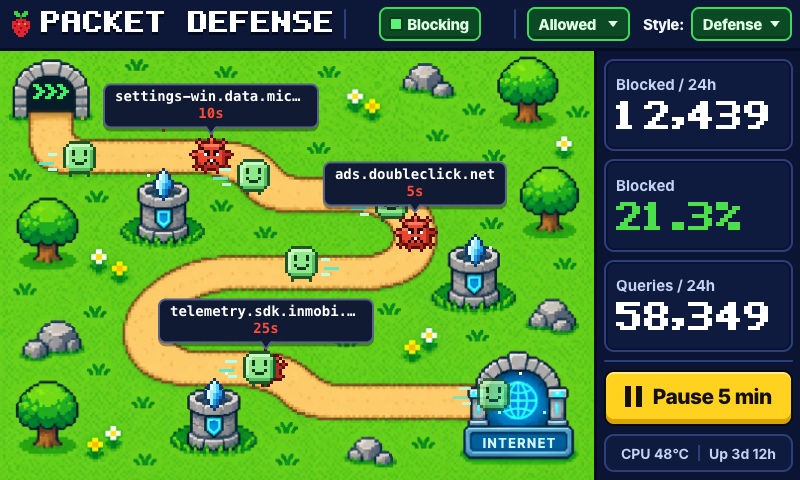
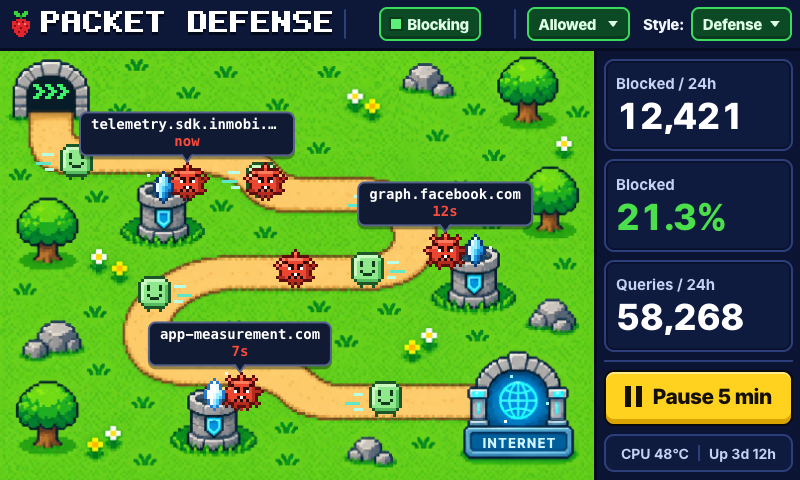
Duck Block on a painted marsh plate; clearer numbers and tidier scenes
Packet Defense and Duck Block use the heavy sans for their big numbers, held
monsters wait beside their tower so packets pass, and Duck Block call-outs stay
inside the scene.

diff --git a/app/themes/duckblock.js b/app/themes/duckblock.js
@@ -13,7 +13,7 @@
   // grass, pond, reeds). To swap in an image plate later, draw it at 0,0 at this size and keep these positions.
   const PW = 185, PH = 144, SC = 3;      // logical scene size; one logical pixel = 3 screen px (555 x 432 on the panel)
   const HORIZON_Y = 100;                 // where sky meets grass
-  const DOG = { x: 74, y: 138 };         // centre of the dog's feet on the grass
+  const DOG = { x: 76, y: 136 };         // centre of the dog's feet on the grass
   const SIGN = { dx: 41, dy: -47 };      // centre of the raised sign relative to DOG
   const LANES = [                        // flight lanes for labelled ducks: y = duck centre, x = where it hovers
     { y: 19, x: 52 }, { y: 42, x: 66 }, { y: 65, x: 58 },
@@ -21,6 +21,9 @@
   const EXTRA_Y = [9, 76];               // unlabelled ducks fly anywhere in this band
   const CALL_DX = 21;                    // call-out starts this far right of a duck's centre
   const PONDS = [{ x: 152, y: 110, rx: 34, ry: 4.5 }, { x: 22, y: 117, rx: 22, ry: 3.5 }];
+  // Image plate (themes/duckblock/plate.webp, 1200x880) shown under the canvas at the scene's height, left-aligned:
+  // logical = plate px * PH / 880. WATER is the painted strip of water (for the glints); the tree mask keeps clouds behind the tree.
+  const PLATE = { w: 1200, h: 880 }, WATER = { y0: 107, y1: 110 }, TREE_MASK_W = 46;
   const TREE = { x: 5, top: 40 };        // trunk base x (left edge tree) and where the trunk meets the canopy
 
   const mk = (w, h) => { const c = document.createElement("canvas"); c.width = w; c.height = h; return c; };
@@ -359,7 +362,7 @@
           <button class="dk-tb" data-act="allowed" data-k="allowed" type="button"><span>Allowed<span class="n"></span></span><i class="dk-chip"><svg viewBox="0 0 12 10" aria-hidden="true"><path d="M1 5l3.500 3.500L11 1.500" fill="none" stroke="currentColor" stroke-width="2.500"/></svg><u></u></i></button>
           <button class="dk-tb" data-act="style" type="button"><span>Style</span><i class="dk-chip">Duck<u></u></i></button>
         </div>
-        <div class="dk-scene"><canvas class="dk-cv" width="${PW}" height="${PH}"></canvas>
+        <div class="dk-scene"><img class="dk-plate" src="themes/duckblock/plate.webp" alt="" draggable="false"><canvas class="dk-cv" width="${PW}" height="${PH}"></canvas>
           <div class="dk-calls" data-k="calls"></div>
           <div class="dk-nap" data-k="nap"><b>PAUSED</b><span data-k="cd"></span></div>
         </div>
@@ -378,7 +381,7 @@
       const dR = ["up", "mid", "down"].map((w) => bake(duckRows(w), DUCK)), dogs = {};
       for (const f of ["open", "blink", "happy"]) dogs[f] = [bake(dogRows(f, 0), DOGP), bake(dogRows(f, 1), DOGP)];
       const S = this.s = {
-        m: null, ctx, host, back: paintBack(), front: paintFront(),
+        m: null, ctx, host, back: null, front: null, plateOk: false, treeMask: null,
         duckR: dR, duckL: dR.map(flip), puff: [0, 1, 2, 3].map((f) => bake(puffRows(f), PUFF)),
         dogs, tails: [0, 1, 2].map((f) => bake(tailRows(f), DOGP)), sleep: [bake(sleepRows(0), DOGP), bake(sleepRows(1), DOGP)],
         sign: tiltBake(signRows(), SIGNP, [16, 28, 40]), signFlat: bake(signRows(), SIGNP), stamp: tiltBake(stampRows(), SIGNP, [12, 22, 32]),
@@ -387,6 +390,17 @@
         rate: K.rateTracker(), news: K.newsTracker(), ducks: [], parts: [], queue: [], lanes: LANES.map(() => null), call: [...calls.children],
         acc: 0.6, gap: 0, clock: 0, cheer: 0, quiet: 0, pick: 0, seeded: false, hw: PW * SC, oy: 0,
       };
+      const pim = el.querySelector(".dk-plate"), noPlate = () => { if (this.s !== S) return; S.plateOk = false; S.back = paintBack(); S.front = paintFront(); pim.hidden = true; };
+      const gotPlate = () => {   // clouds must pass behind the painted tree: a mask of every non-sky pixel in the tree's corner
+        if (this.s !== S) return;
+        try {
+          const mc = mk(PW, PH), g = mc.getContext("2d"), dw = PLATE.w * PH / PLATE.h; g.drawImage(pim, 0, 0, dw, PH);
+          const id = g.getImageData(0, 0, PW, PH), d = id.data;
+          for (let i = 0; i < d.length; i += 4) { const x = (i / 4) % PW, sky = d[i + 2] > 140 && d[i + 2] > d[i] + 40; d[i + 3] = x < TREE_MASK_W && !sky ? 255 : 0; }
+          g.putImageData(id, 0, 0); S.treeMask = mc; S.plateOk = true;
+        } catch { noPlate(); }
+      };
+      if (pim.complete && pim.naturalWidth) gotPlate(); else { pim.addEventListener("load", gotPlate); pim.addEventListener("error", noPlate); }
       const size = () => { const w = host.clientWidth, h = host.clientHeight; if (!w || !h) return; S.hw = w; S.oy = h - PH * SC; };
       size(); this.ro = new ResizeObserver(size); this.ro.observe(host);
       this.stop = K.loop((dt, t) => this.frame(dt, t), 20);
@@ -403,7 +417,6 @@
       q(el, "cd").textContent = (m.pill.text.split("·")[1] || "").trim();
       for (const k of ["blocked", "total"]) {
         const v = q(el, k); v.textContent = num(d[k]); fit(v, 16);
-        if (v.style.fontSize) { v.style.fontSize = "24px"; if (v.scrollWidth > v.clientWidth) v.style.fontSize = "16px"; }   // keep the pixel font on its 8 px grid
       }
       const lab = q(el, "lab"); lab.textContent = heroLabel(m, "Blocked / 24h"); lab.classList.toggle("alert", !!m.labelAlert || m.paused);
       q(el, "pct").textContent = pct(d.percent_blocked);
@@ -461,7 +474,8 @@
         if (dk.lab) {   // the call-out rides along beside its duck
           const e = dk.el, vis = dk.x > -16;
           if (vis !== dk.shown) { dk.shown = vis; e.classList.toggle("on", vis); }
-          const px = Math.round((dk.x + CALL_DX) * SC), py = Math.round(S.oy + (dk.st === "puff" || dk.st === "stamp" ? dk.by : dk.y) * SC - 23);
+          if (vis && !dk.w) dk.w = e.offsetWidth;
+          const px = Math.min(Math.round((dk.x + CALL_DX) * SC), S.hw - (dk.w || 120) - 6), py = Math.round(S.oy + (dk.st === "puff" || dk.st === "stamp" ? dk.by : dk.y) * SC - 23);
           if (px !== dk.px || py !== dk.py) { dk.px = px; dk.py = py; e.style.transform = `translate(${px}px,${py}px)`; }
         }
         return true;
@@ -486,15 +500,21 @@
       if (S.cheer > 0) S.cheer -= dt;
       this.updDucks(dt, on);
 
-      ctx.drawImage(S.back, 0, 0);
+      if (!S.plateOk && !S.back) return;
+      if (S.plateOk) ctx.clearRect(0, 0, PW, PH); else ctx.drawImage(S.back, 0, 0);
       for (const k of S.sky) {
         const img = S.clouds[k.k]; k.x += k.v * dt; if (k.x > PW + 2) k.x = -img.width - 2;
         ctx.drawImage(img, Math.round(k.x), k.y);
       }
-      ctx.drawImage(S.front, 0, 0);
+      if (S.plateOk) { ctx.globalCompositeOperation = "destination-out"; ctx.drawImage(S.treeMask, 0, 0); ctx.globalCompositeOperation = "source-over"; }
+      else ctx.drawImage(S.front, 0, 0);
       // water glints
       ctx.fillStyle = "#EAF8FF";
-      for (let i = 0; i < 7; i++) {
+      if (S.plateOk) for (let i = 0; i < 6; i++) {
+        const ph = Math.floor(c * 1.6 + i * 0.37), gx = 16 + Math.floor(hash(i, ph, 5) * (PW - 20)), gy = WATER.y0 + Math.floor(hash(ph, i, 9) * (WATER.y1 - WATER.y0 + 1));
+        ctx.fillRect(gx, gy, (c * 1.6 + i * 0.37) % 1 < 0.5 ? 3 : 2, 1);
+      }
+      else for (let i = 0; i < 7; i++) {
         const p = PONDS[i % 2], ph = Math.floor(c * 1.6 + i * 0.37), gx = Math.round(p.x + (hash(i, ph, 5) - 0.5) * p.rx * 1.5), gy = Math.round(p.y + (hash(ph, i, 9) - 0.5) * p.ry);
         if (inPond(gx, gy, -1) && inPond(gx + 2, gy, -1) && !(gx < 14 && gy < HORIZON_Y + 12)) ctx.fillRect(gx, gy, (c * 1.6 + i * 0.37) % 1 < 0.5 ? 3 : 2, 1);
       }

diff --git a/app/themes/defense.js b/app/themes/defense.js
@@ -355,7 +355,7 @@
       a.tw = j; a.zs = Math.max(a.s + 2, HOLD_S[j] - 12 - Math.random() * 14);
     },
     place(i, a) {
-      const S = this.s, b = S.bub[i], P = at(a.s), hw = S.host.clientWidth, sx = hw / LW, sy = S.host.clientHeight / LH;
+      const S = this.s, b = S.bub[i], P0 = at(a.s), tw = TOWERS[a.tw], P = { x: P0.x + (tw.x - P0.x) * 0.5, y: P0.y + (tw.y - 14 - P0.y) * 0.5 }, hw = S.host.clientWidth, sx = hw / LW, sy = S.host.clientHeight / LH;
       b.dataset.domain = a.item.domain; b.querySelector(".d").textContent = a.item.domain; b.querySelector(".t").textContent = S.m ? short(ago(S.m, a.item)) : "";
       const x = (P.x + 0.5) * sx, y = (P.y - 9) * sy, bw = b.offsetWidth, left = cl(x, bw / 2 + 4, hw - bw / 2 - 4);
       b.style.left = `${Math.round(left)}px`; b.style.top = `${Math.round(y)}px`; b.style.setProperty("--tx", `${Math.round(x - left)}px`);
@@ -370,7 +370,7 @@
       for (let i = 0; i < n; i++) { const an = Math.random() * 6.283, v = sp * (0.4 + Math.random() * 0.6); S.parts.push({ x, y, vx: Math.cos(an) * v, vy: Math.sin(an) * v - 8, g: 45, life: 0.35 + Math.random() * 0.4, c: SPARKS[i % SPARKS.length] }); }
     },
     zap(a, big) {
-      const S = this.s, P = at(a.s);
+      const S = this.s, P = a.st === "held" && a.px != null ? { x: a.px, y: a.py } : at(a.s);
       S.bolts.push({ tw: a.tw, x: P.x, y: P.y, t: big ? 0.3 : 0.2 }); S.tfl[a.tw] = 0.3; a.flash = big ? 0.3 : 0.18;
       this.burst(P.x, P.y, big ? 10 : 4, big ? 34 : 22);
     },
@@ -426,7 +426,13 @@
         for (let y = 0; y < 5; y++) g.fillRect(TUNNEL.x + 8 + k * 4 + CHEV[y].indexOf("#"), TUNNEL.y + 9 + y, 2, 1);
       }
       // actors, far to near
-      const list = S.actors; for (const a of list) { const P = at(a.s); a.px = P.x - P.dy * a.lat; a.py = P.y + P.dx * a.lat; a.dir = P.dx; }
+      const list = S.actors; for (const a of list) {
+        const P = at(a.s); a.px = P.x - P.dy * a.lat; a.py = P.y + P.dx * a.lat; a.dir = P.dx;
+        if (a.kind === "m") {   // a held monster is pulled off the path toward its tower, so packets pass beside it
+          const tw = TOWERS[a.tw], k = a.st === "held" ? 0.5 : 0, tx = (tw.x - P.x) * k, ty = (tw.y - 14 - P.y) * k;
+          a.ox = (a.ox || 0) + (tx - (a.ox || 0)) * 0.3; a.oy = (a.oy || 0) + (ty - (a.oy || 0)) * 0.3; a.px += a.ox; a.py += a.oy;
+        }
+      }
       list.sort((a, b) => a.py - b.py);
       for (const a of list) {
         const f = Math.floor((S.clock + a.ph) * (a.kind === "p" ? 7 : 5)) % 2, x = Math.round(a.px), y = Math.round(a.py);

diff --git a/app/themes/duckblock.css b/app/themes/duckblock.css
@@ -31,6 +31,7 @@
 
 /* ---- scene */
 .dk-scene { position: relative; overflow: hidden; background: #52C24A; border-right: 2px solid #8FA8F5; }
+.dk-plate { position: absolute; left: 0; bottom: 0; height: 432px; width: auto; max-width: none; display: block; }
 .dk-cv { position: absolute; left: 0; bottom: 0; display: block; image-rendering: pixelated; image-rendering: crisp-edges; }
 .dk-calls { position: absolute; inset: 0; pointer-events: none; }
 .dk-call { position: absolute; left: 0; top: 0; height: 46px; min-width: 96px; padding: 0 12px; display: flex; flex-direction: column; align-items: center; justify-content: center;
@@ -56,8 +57,8 @@
 .dk-card.dk-g { flex-grow: 1.15; gap: 10px; padding: 0 10px; }
 .dk-ico { flex: none; width: 34px; height: 38px; }
 .dk-col { flex: 1 1 auto; min-width: 0; display: flex; flex-direction: column; align-items: center; }
-.dk-v { width: 100%; max-width: 100%; overflow: hidden; white-space: nowrap; text-align: center; font-family: PiPixel, "DejaVu Sans Mono", monospace; -webkit-font-smoothing: none;
-  font-size: 32px; line-height: 1.1; color: #FFF; }
+.dk-v { width: 100%; max-width: 100%; overflow: hidden; white-space: nowrap; text-align: center; font-family: "Inter Tight", Inter, sans-serif; font-weight: 800; letter-spacing: -.3px; font-variant-numeric: tabular-nums;
+  font-size: 34px; line-height: 1.1; color: #FFF; }
 .dk-l { margin-top: 1px; font-weight: 800; font-size: 14px; color: #E6ECFF; white-space: nowrap; overflow: hidden; text-overflow: ellipsis; max-width: 100%; }
 .dk-l.alert { color: var(--dk-yel); }
 .dk-l.big { font-size: 20px; flex: 1 1 auto; text-align: center; margin: 0; }

diff --git a/app/themes/defense.css b/app/themes/defense.css
@@ -62,8 +62,8 @@
   border: 2px solid var(--pd-line); border-radius: 10px; background: #0E1A3E; box-shadow: inset 0 0 0 2px #0A1230; }
 .pd-k { font-weight: 700; font-size: 15px; color: var(--pd-lab); white-space: nowrap; overflow: hidden; text-overflow: ellipsis; }
 .pd-k.alert { color: var(--pd-yel); }
-.pd-v { margin-top: 7px; width: 100%; font-family: PiPixel, "DejaVu Sans Mono", monospace; font-size: 32px; line-height: 1; color: #FFF; white-space: nowrap; overflow: hidden;
-  -webkit-font-smoothing: none; font-variant-numeric: tabular-nums; }
+.pd-v { margin-top: 5px; width: 100%; font-family: "Inter Tight", Inter, sans-serif; font-weight: 800; font-size: 36px; line-height: 1; letter-spacing: -.3px; color: #FFF; white-space: nowrap; overflow: hidden;
+  font-variant-numeric: tabular-nums; }
 .pd-v.g { color: var(--pd-green); }
 .skin-defense.paused .pd-v.g { color: #8E98B8; }
 .pd-rule { flex: none; height: 2px; background: var(--pd-line); border-radius: 1px; }
